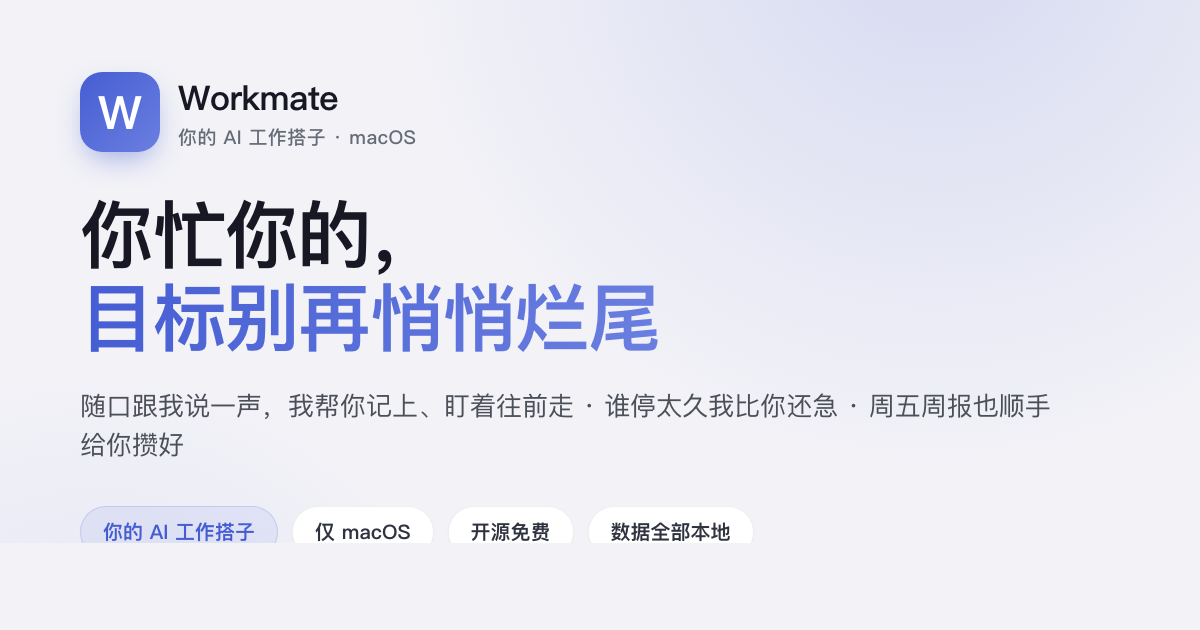
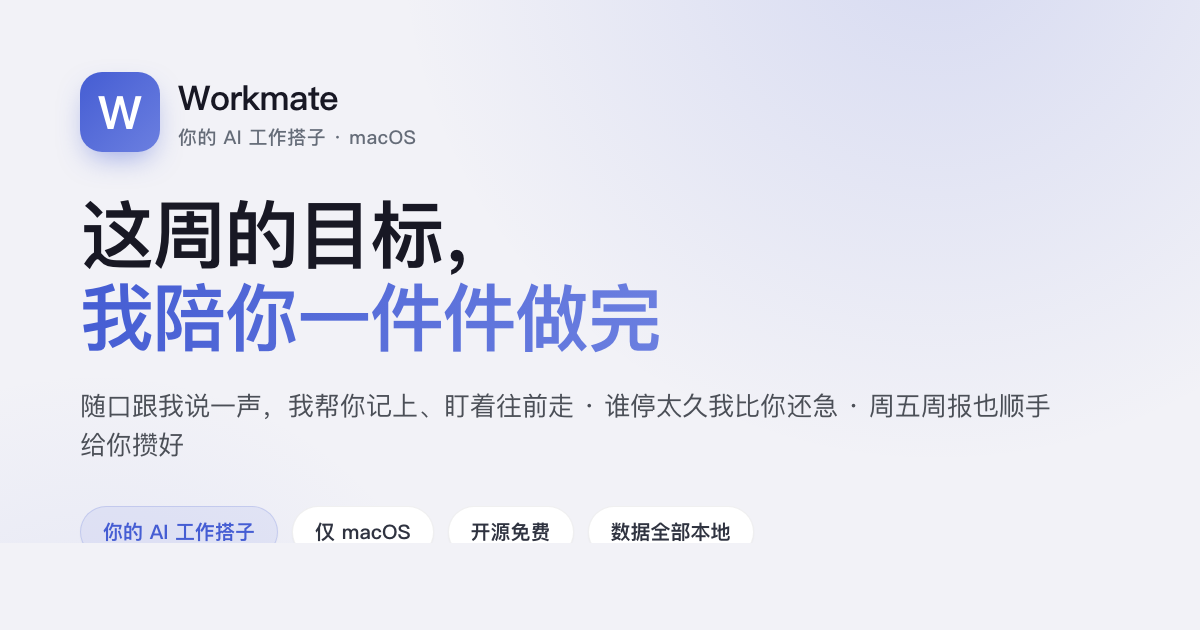
fix(website): refine hero headline to 这周的目标，我陪你一件件做完
Replace 你忙你的，目标别再悄悄烂尾 with a warmer, positive completion
framing in the buddy's voice. Regenerate og-image; sync doc example.

Changed region(s): [[0.0617, 0.3016, 0.555, 0.573]]

diff --git a/website/src/sections/Hero.tsx b/website/src/sections/Hero.tsx
@@ -27,10 +27,10 @@ export function Hero() {
           ref={titleRef}
           className="mb-6 text-4xl font-extrabold leading-[1.12] tracking-tight text-foreground sm:text-5xl md:text-6xl"
         >
-          你忙你的，
+          这周的目标，
           <br />
           <span className="bg-gradient-to-r from-brand to-brand-light bg-clip-text text-transparent">
-            目标别再悄悄烂尾
+            我陪你一件件做完
           </span>
         </h1>
 

diff --git a/docs/design/website.md b/docs/design/website.md
@@ -41,7 +41,7 @@
 ## 3. 内容与文案原则
 
 - 文案中文优先；标题含主关键词；不用"了解更多/探索"这类空开头。
-- **主线措辞围绕"管理/推进目标"**；周报是收尾 payoff，不抢主标题。Hero 标题示例 **「你忙你的，目标别再悄悄烂尾」**，副标题用搭子第一人称点出"随口说 → 我记上盯着推进 → 停了我催你 → 周五顺手攒周报"。
+- **主线措辞围绕"管理/推进目标"**；周报是收尾 payoff，不抢主标题。Hero 标题示例 **「这周的目标，我陪你一件件做完」**，副标题用搭子第一人称点出"随口说 → 我记上盯着推进 → 停了我催你 → 周五顺手攒周报"。
 - 一个 H1；meta description 120–155 字符；title 形如 `Workmate · 工作搭子 | 用说话管理周目标，盯住推进、一键周报`。
 - **不得出现"无 key / mock 也能跑通"等已废弃对外措辞**（mock 仅是内部测试降级，不对外宣传）。
 